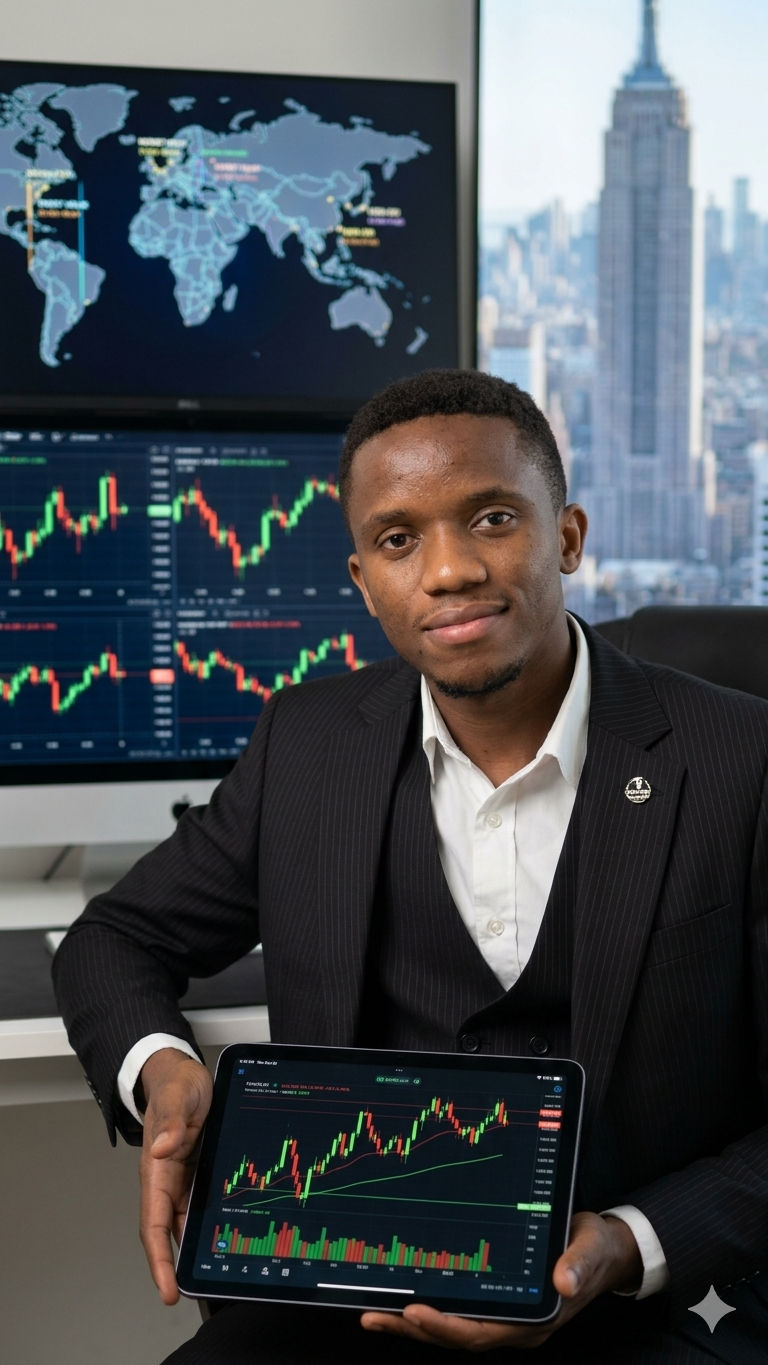
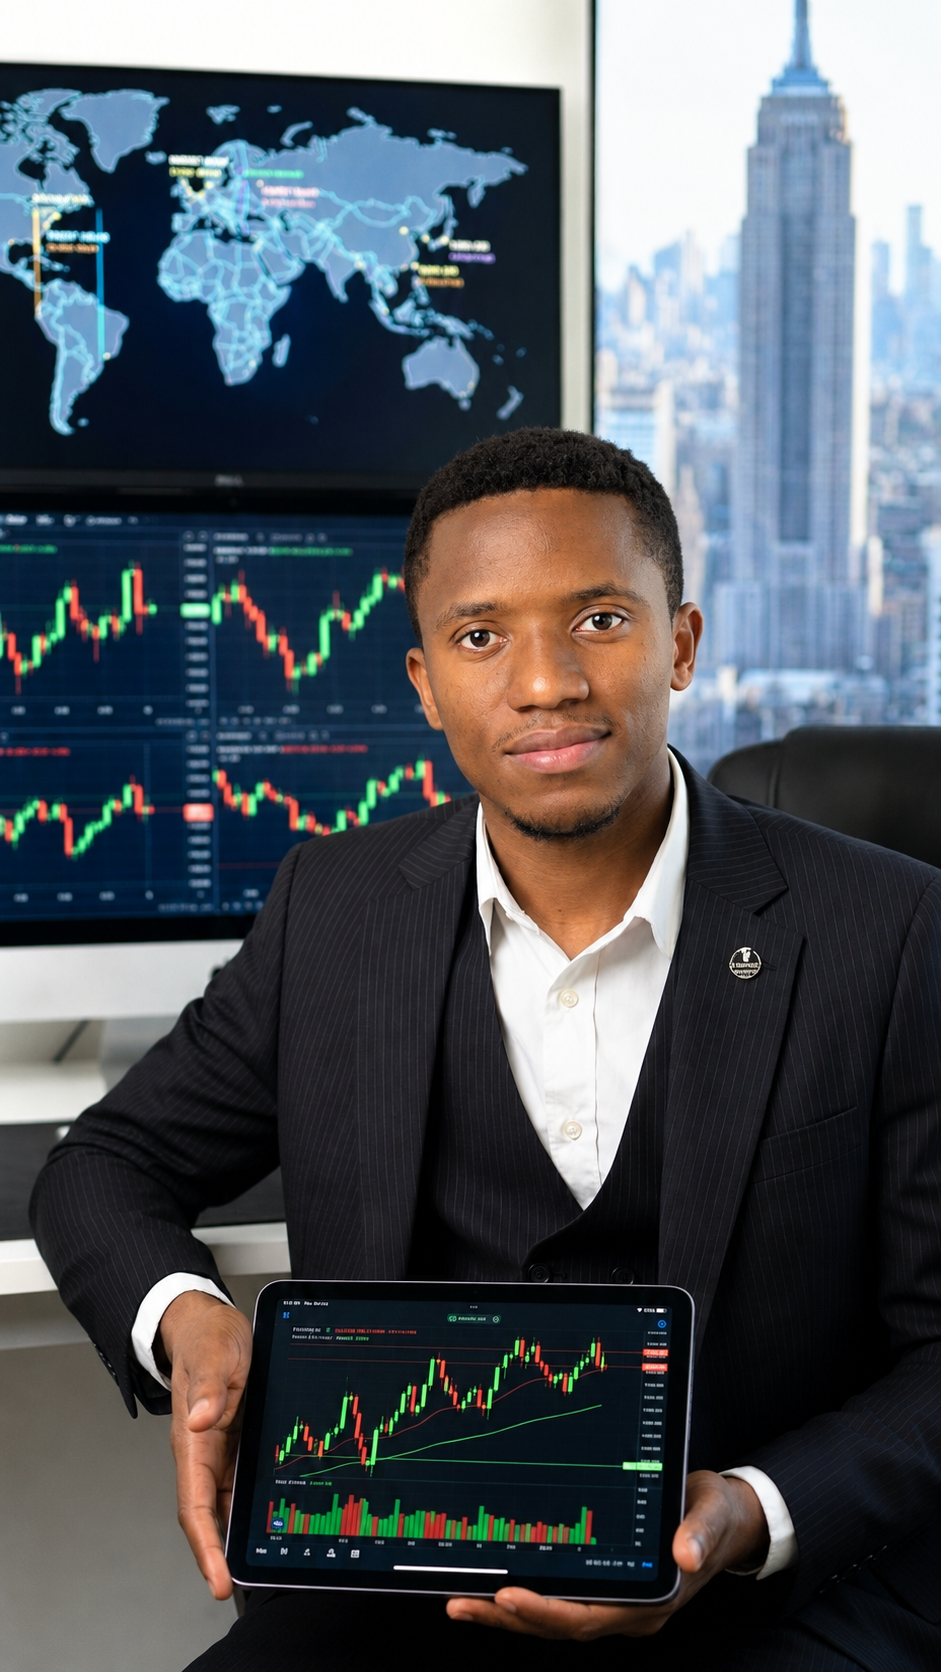
Hero: replace trader photo and remove face blur

diff --git a/src/components/landing/HeroSection.tsx b/src/components/landing/HeroSection.tsx
@@ -126,12 +126,6 @@ const HeroSection = () => {
           <div className="relative w-full h-full overflow-hidden shadow-2xl"
             style={{ clipPath: "polygon(10% 0%, 100% 0%, 100% 90%, 90% 100%, 0% 100%, 0% 10%)" }}>
             <img src="/hero-bg.jpg.png" alt="MQTRADE PRO trader" className="w-full h-full object-cover object-center scale-105" />
-            {/* Face blur */}
-            <div className="absolute"
-              style={{ top: "8%", left: "18%", width: "58%", height: "48%",
-                backdropFilter: "blur(5px)", WebkitBackdropFilter: "blur(5px)",
-                mask: "radial-gradient(ellipse at center, black 25%, transparent 70%)",
-                WebkitMask: "radial-gradient(ellipse at center, black 25%, transparent 70%)" }} />
             <div className="absolute bottom-0 left-0 right-0 h-20 bg-gradient-to-t from-background/60 to-transparent" />
           </div>
           {/* Accent dots */}